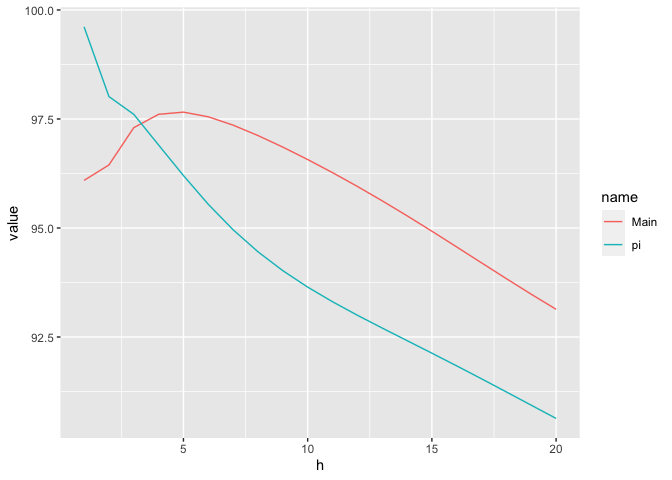
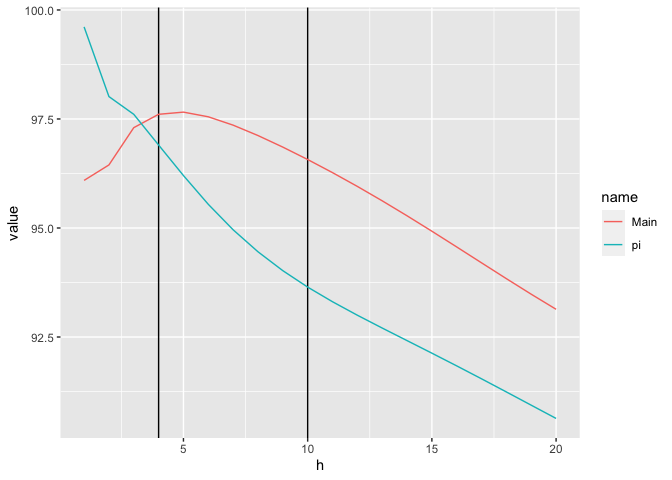
Updating function documentation

Changed region(s): [[0.2188, 0.6875, 0.25, 0.7188], [0.2188, 0.4688, 0.25, 0.5]]

diff --git a/README.md b/README.md
@@ -58,6 +58,7 @@ cbind(h = 1:20, fevdsv, fevdmv) |>
   tidyr::pivot_longer(cols = !h) |>
   dplyr::filter(name %in% c("Main", "pi")) |>
   ggplot(aes(x = h, y = value, color = name)) +
+  geom_vline(xintercept = c(4, 10)) +
   geom_line()
 ```
 
